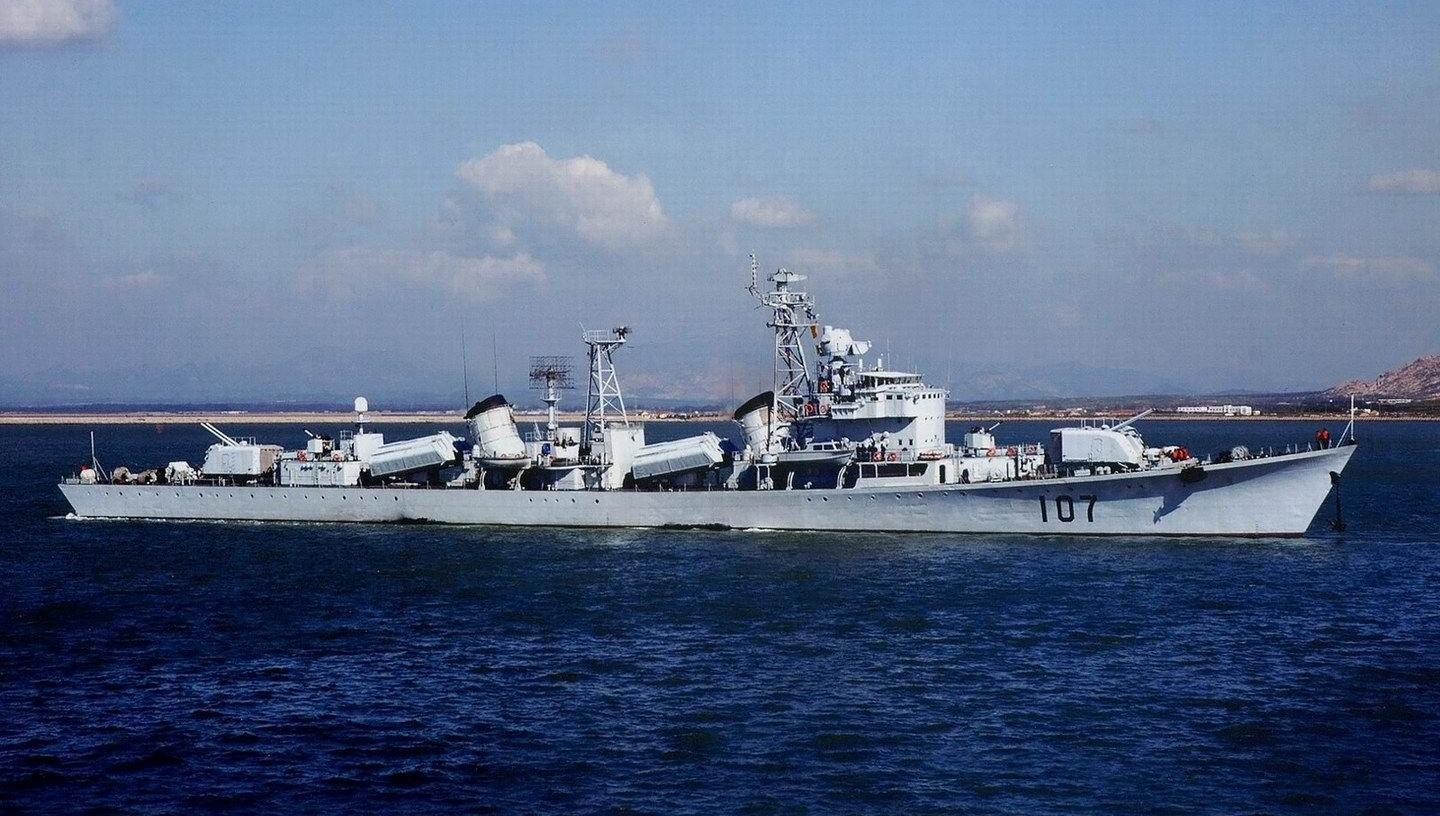
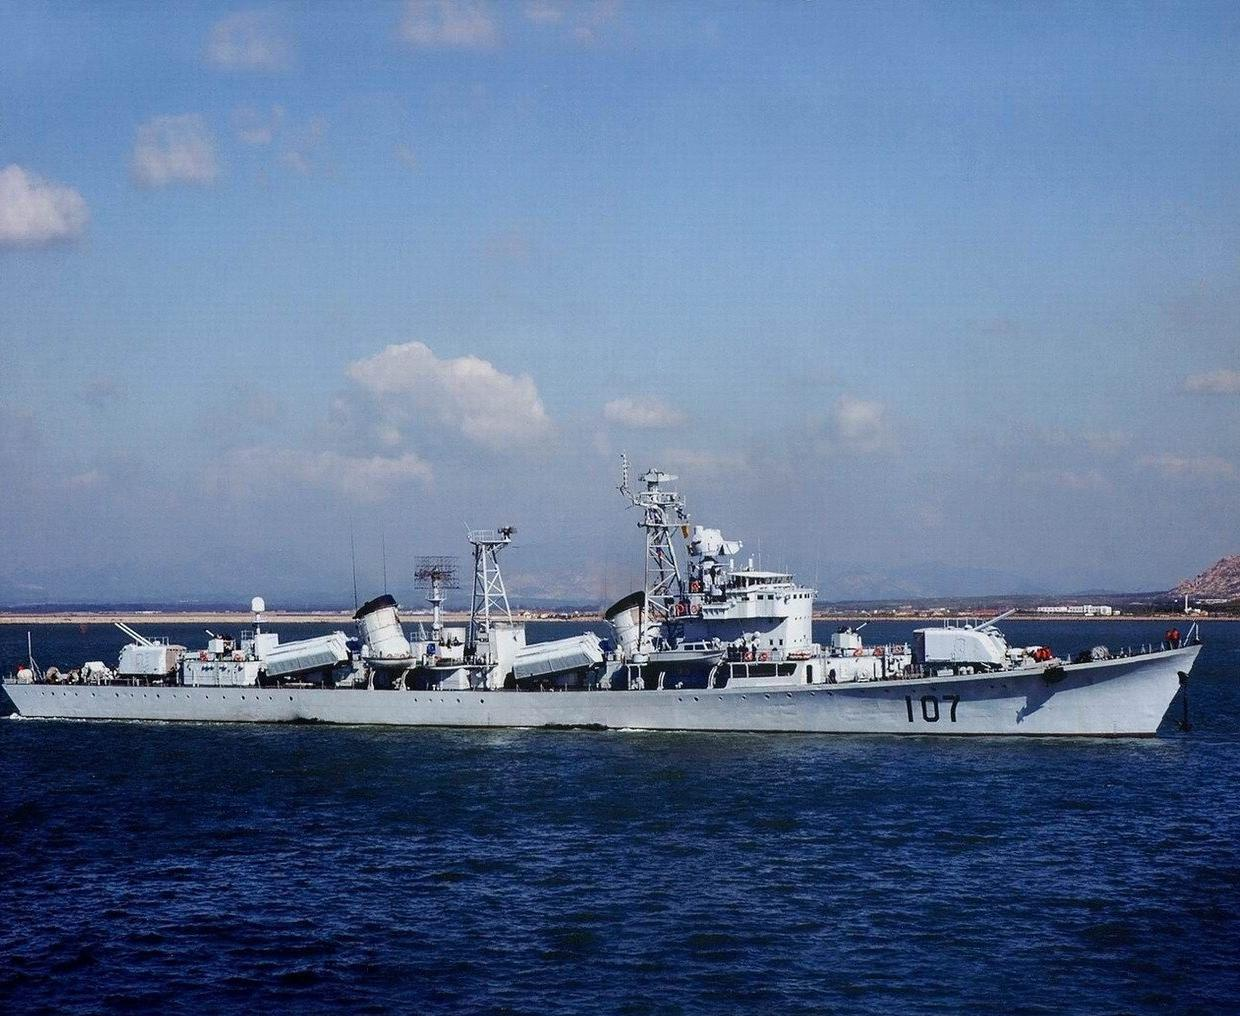
水平方向压缩

diff --git a/project2/seam.py b/project2/seam.py
@@ -59,6 +59,52 @@ def delete_seam(img_matrix, energy_matrix, orient):
 
         return ret_matrix
     elif orient == 'vertical':
-        return img_matrix
+        ret_matrix = np.zeros((height, width-1, channel))
+        route_matrix = np.zeros(energy_matrix.shape)
+        for i in range(1, height):
+            for j in range(width):
+                if j == 0:
+                    if energy_matrix[i-1][j] < energy_matrix[i-1][j+1]:
+                        energy_matrix[i][j] += energy_matrix[i-1][j]
+                        route_matrix[i][j] = j
+                    else:
+                        energy_matrix[i][j] += energy_matrix[i-1][j+1]
+                        route_matrix[i][j] = j+1
+                elif j == width-1:
+                    if energy_matrix[i-1][j] < energy_matrix[i-1][j-1]:
+                        energy_matrix[i][j] += energy_matrix[i-1][j]
+                        route_matrix[i][j] = j
+                    else:
+                        energy_matrix[i][j] += energy_matrix[i-1][j-1]
+                        route_matrix[i][j] = j-1
+                else:
+                    if energy_matrix[i-1][j-1] <= energy_matrix[i-1][j] and energy_matrix[i-1][j-1] <= energy_matrix[i-1][j+1]:
+                        energy_matrix[i][j] += energy_matrix[i-1][j-1]
+                        route_matrix[i][j] = j-1
+                    elif energy_matrix[i-1][j] <= energy_matrix[i-1][j-1] and energy_matrix[i-1][j] <= energy_matrix[i-1][j+1]:
+                        energy_matrix[i][j] += energy_matrix[i-1][j]
+                        route_matrix[i][j] = j
+                    else:
+                        energy_matrix[i][j] += energy_matrix[i-1][j+1]
+                        route_matrix[i][j] = j+1
+
+        min_energy = energy_matrix[height-1][0]
+        min_index = 0
+        for i in range(width):
+            if energy_matrix[height-1][i] < min_energy:
+                min_energy = energy_matrix[height-1][i]
+                min_index = i
+
+        for i in range(height):
+            for j in range(width-1):
+                if j < min_index:
+                    for c in range(channel):
+                        ret_matrix[height-1-i][j][c] = img_matrix[height-1-i][j][c]
+                else:
+                    for c in range(channel):
+                        ret_matrix[height-1-i][j][c] = img_matrix[height-1-i][j+1][c]
+            min_index = route_matrix[int(height-1-i)][int(min_index)]
+
+        return ret_matrix
     else:
         return img_matrix

diff --git a/project2/main.py b/project2/main.py
@@ -5,13 +5,13 @@ from img_energy import calc_energy_matrix
 
 
 if __name__ == '__main__':
-    img = Image.open('data/carrier.jpg')
+    img = Image.open('data/destroyer.jpg')
     img = np.array(img)
     for i in range(200):
         energy_matrix = calc_energy_matrix(img)
-        img = delete_seam(img, energy_matrix, 'horizontal')
+        img = delete_seam(img, energy_matrix, 'vertical')
         print(i)
 
     img = Image.fromarray(np.uint8(img))
     img.show()
-    img.save("output/carrier.jpg")
+    img.save("output/destroyer.jpg")
